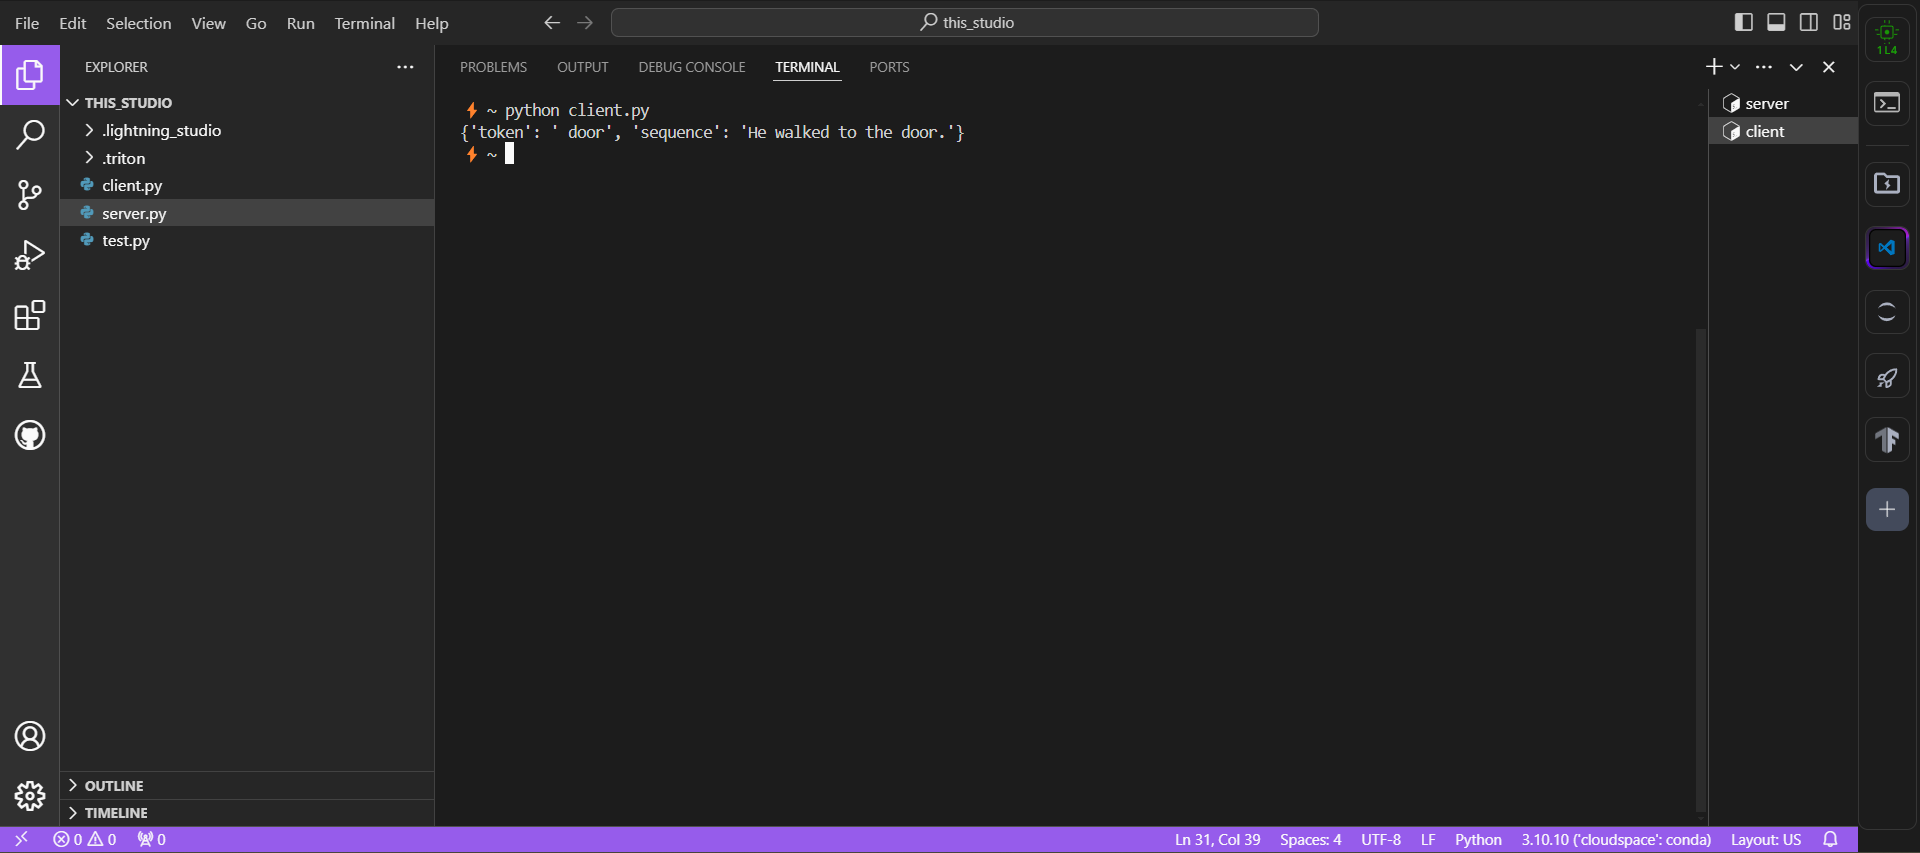
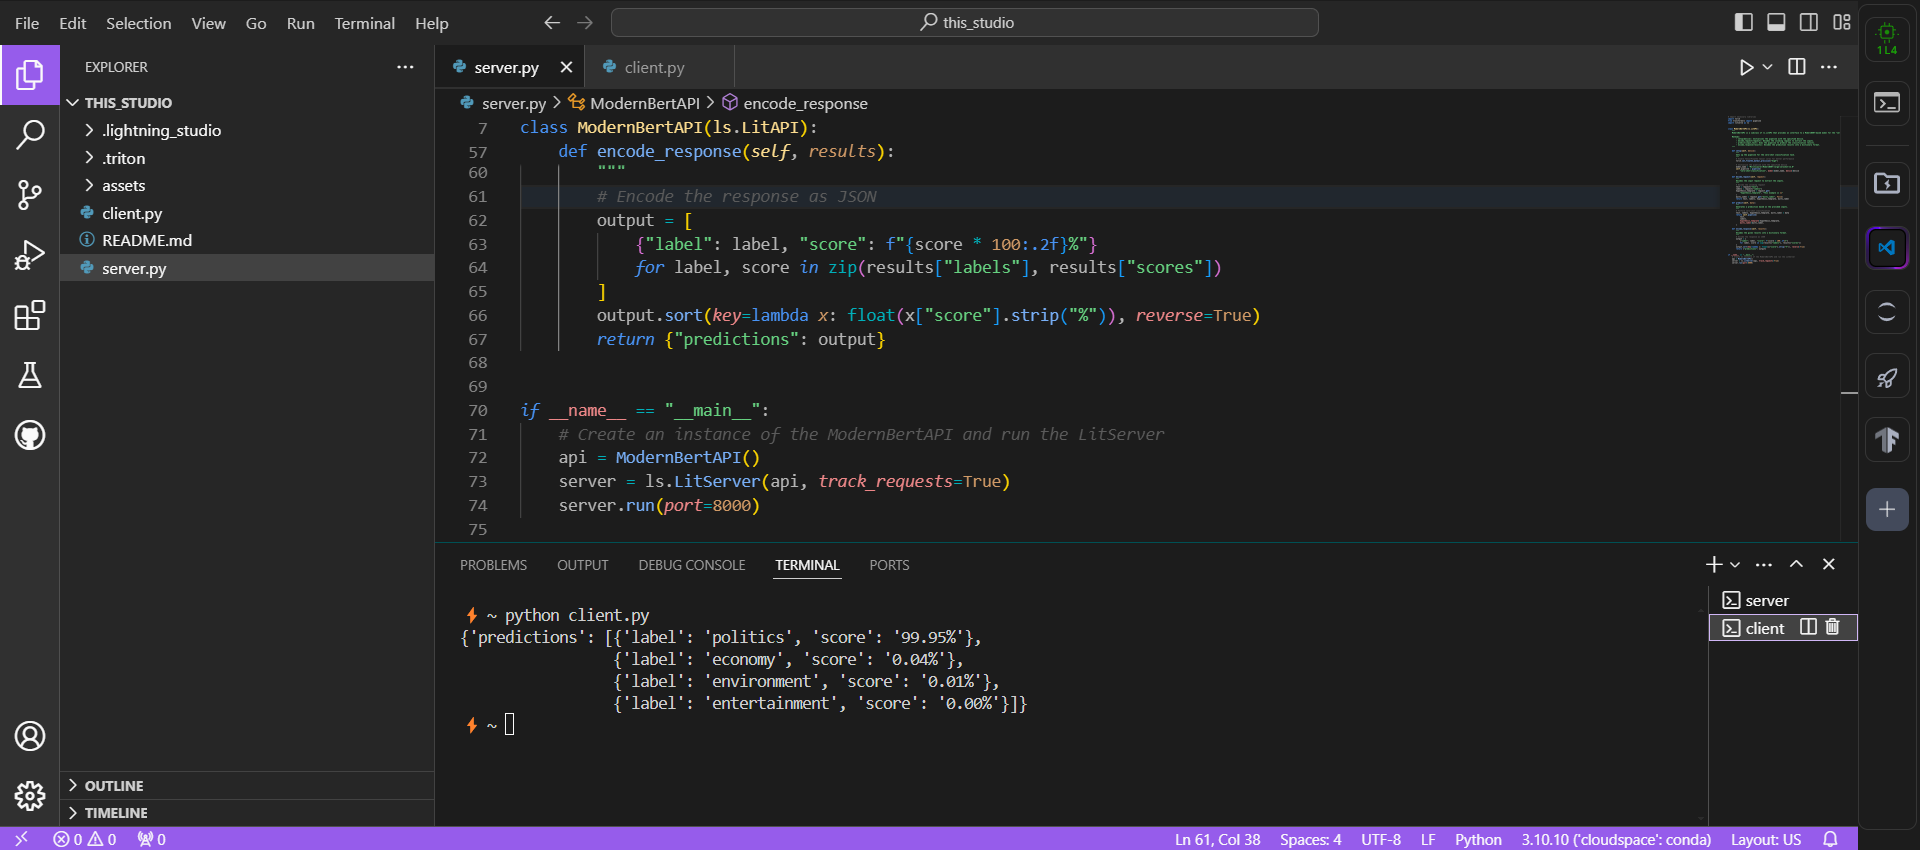
task changed to zero shot classification

diff --git a/server.py b/server.py
@@ -6,48 +6,65 @@ import litserve as ls
 
 class ModernBertAPI(ls.LitAPI):
     """
-    ModernBertAPI is a subclass of ls.LitAPI that provides an interface to a BERT-based model for the "fill-mask" task.
+    ModernBertAPI is a subclass of ls.LitAPI that provides an interface to a ModernBERT-based model for the "zero-shot classification" task.
 
     Methods:
         - setup(device): Initializes the pipeline with the specified device.
-        - decode_request(request): Decodes the input request to extract the input text.
-        - predict(input_text): Uses the pipeline to predict the masked tokens in the input text.
+        - decode_request(request): Decodes the incoming request to extract the inputs.
+        - predict(input_text): Uses the pipeline to predict the classification results.
         - encode_response(results): Encodes the prediction results into a dictionary format.
     """
 
     def setup(self, device):
         """
-        Sets up the pipeline for the fill-mask task using the specified device.
+        Sets up the pipeline for the zero-shot classification task.
         """
         # Initialize the pipeline with the specified device
-        model_name = "answerdotai/ModernBERT-large"
+        model_name = "MoritzLaurer/ModernBERT-large-zeroshot-v2.0"
         self.pipeline = pipeline(
-            "fill-mask",
-            model=model_name,
-            torch_dtype=torch.bfloat16,
-            device=device,
+            "zero-shot-classification", 
+            model=model_name, 
+            torch_dtype=torch.bfloat16, 
+            device=device
         )
 
     def decode_request(self, request):
         """
-        Decodes the input request to extract the input text.
+        Decodes the input request to extract the inputs.
         """
-        # Extract the input text from the request
-        return request["input_text"]
+        # Decode the incoming request
+        text = request["text"]
+        labels = request["labels"]
+        hypothesis_template = request.get(
+            "hypothesis_template", "This example is {}"
+        )
+        multi_label = request.get("multi_label", False)
+        return text, labels, hypothesis_template, multi_label
 
-    def predict(self, input_text):
+    def predict(self, data):
         """
-        Generates a prediction based on the provided input text.
+        Generates a prediction based on the provided inputs.
         """
-        # Generate a prediction using the pipeline
-        return self.pipeline(input_text)
+        # Perform zero-shot classification
+        text, labels, hypothesis_template, multi_label = data
+        return self.pipeline(
+            text,
+            labels,
+            hypothesis_template=hypothesis_template,
+            multi_label=multi_label,
+        )
 
     def encode_response(self, results):
         """
         Encodes the given results into a dictionary format.
         """
-        # Return the results in a dictionary format
-        return {"token": results[0]["token_str"], "sequence": results[0]["sequence"]}
+        # Encode the response as JSON
+        output = [
+            {"label": label, "score": f"{score * 100:.2f}%"}
+            for label, score in zip(results["labels"], results["scores"])
+        ]
+        output.sort(key=lambda x: float(x["score"].strip("%")), reverse=True)
+        return {"predictions": output}
 
 
 if __name__ == "__main__":

diff --git a/client.py b/client.py
@@ -1,28 +1,18 @@
 import requests
 from pprint import pprint
 
+url = "http://localhost:8000/predict"
 
-def test_server(input_text):
-    """
-    Sends a POST request to the server with the given input text and prints the server's response.
+# Define the text and labels for classification
+payload = {
+    "text": "Angela Merkel is a politician in Germany and leader of the CDU",
+    "labels": ["politics", "economy", "entertainment", "environment"],
+    "hypothesis_template": "This text is about {}",
+    "multi_label": False,
+}
 
-    Args:
-        input_text (str): The text to be sent to the server for prediction.
+# Send the request to the server
+response = requests.post(url, json=payload)
 
-    Returns: None
-    """
-    # API endpoint URL for the server
-    url = "http://127.0.0.1:8000/predict"
-
-    # Send a POST request with the request payload
-    payload = {"input_text": input_text}
-    response = requests.post(url, json=payload)
-
-    # Print the response from the server
-    pprint(response.json())
-
-
-if __name__ == "__main__":
-    # Sample input text for testing. e.g., "The capital of France is [MASK]."
-    input_text = "He walked to the [MASK]."
-    test_server(input_text)
+# Print the predictions
+pprint(response.json())

diff --git a/README.md b/README.md
@@ -2,7 +2,7 @@
 
 [![Open In Studio](https://pl-bolts-doc-images.s3.us-east-2.amazonaws.com/app-2/studio-badge.svg)](https://lightning.ai/sitammeur/studios/modernbert-litserve)
 
-[ModernBERT](https://huggingface.co/collections/answerdotai/modernbert-67627ad707a4acbf33c41deb) models offer significant improvements over the original BERT, boasting faster training, better performance on downstream tasks, and enhanced efficiency through architectural changes and optimized training techniques. This project demonstrates the use of the ModernBERT model for the fill-mask task served using LitServe, an easy-to-use, flexible serving engine for AI models built on FastAPI.
+[ModernBERT](https://huggingface.co/collections/answerdotai/modernbert-67627ad707a4acbf33c41deb) models offer significant improvements over the original BERT, boasting faster training, better performance on downstream tasks, and enhanced efficiency through architectural changes and optimized training techniques. This project shows how to create a self-hosted, private API that deploys a fine-tuned ModernBERT [zeroshot classification model](https://huggingface.co/MoritzLaurer/ModernBERT-large-zeroshot-v2.0) with LitServe, an easy-to-use, flexible serving engine for AI models built on FastAPI.
 
 ## Project Structure
 
@@ -31,11 +31,11 @@ To get started with this project, follow the steps below:
 3. Open a new terminal window.
 4. Run the client: `python client.py`
 
-Now, you can see the output of the model based on the text input. The model will predict the masked word in the sentence.
+Now, you can see the output of the model based on the input request. The model will classify the labels in the sentence.
 
 ## Usage
 
-The project can be used to serve the ModernBERT model using LitServe. Here, the model is used for the fill-mask task, where it predicts the masked word in the sentence. After fine-tuning, the model can also be used for various NLP downstream tasks.
+The project can be used to serve the ModernBERT model using LitServe. The model used in this project is a zero-shot text classification model, meaning it can classify text it has not seen during training. This is a powerful feature that can be used in a variety of applications, such as content moderation, sentiment analysis of new product reviews, topic classification of news articles, identifying the intent of customer support queries, and classifying social media posts based on their subject matter; essentially any situation where you want to quickly categorize text into predefined classes without a large labeled training dataset for each class.
 
 ## Contributing
 
